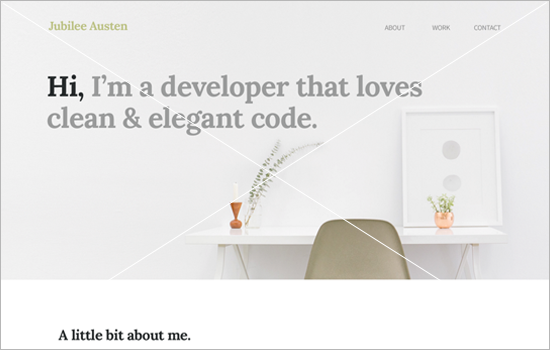
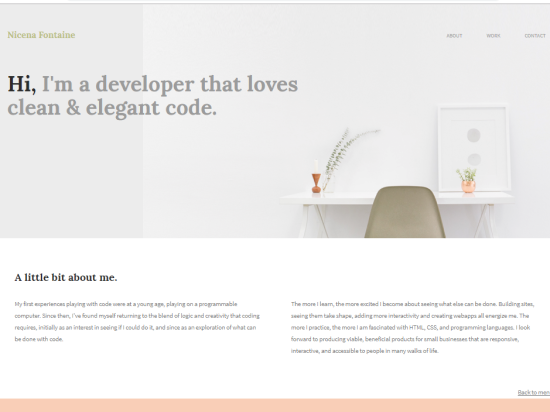
Update portfolio section (content, images and styling).

diff --git a/index.html b/index.html
@@ -33,16 +33,16 @@
             </div>
             <div class="right">
                 <h3 class="title">Rogue Pickings Website</h3>
-                <p class="project-type">HTML5 &amp; CSS from Photoshop Design Comp</p>
-                <p>do de do&hellip;</p>
+                <p class="project-type">HTML5 &amp; CSS fluid page</p>
+                <p>Initially a static page created from a Photoshop Design Comp, it was later styled to be fluid to fit different screen sizes, however is still best viewed on a computer monitor.</p>
             </div>
         </div>
 
         <div class="full-width">
             <div class="left">
                 <h3 class="title">Jubilee Austen Project</h3>
-                <p class="project-type">HTML5 &amp; CSS from Photoshop Design Comp</p>
-                <p>do de do&hellip;</p>
+                <p class="project-type">HTML5 &amp; CSS static page</p>
+                <p>A static page created using HTML5 and CSS that was created from a Photoshop Design Comp. Best viewed on a computer monitor, as it is not responsive.</p>
             </div>
             <div class="right">
                 <img class="thumbnail" src="img/jubilee-thumbnail.png" alt="thumbnail image of Jubilee Austen Project">
@@ -51,12 +51,12 @@
 
         <div class="full-width">
             <div class="left">
-                <img class="thumbnail" src="img/holstee-thumbnail.png" alt="thumbnail image of Manifesto">
+                <img class="thumbnail" src="img/manifesto-thumbnail.png" alt="thumbnail image of Manifesto">
             </div>
             <div class="right">
                 <h3 class="title">Manifesto Challenge</h3>
                 <p class="project-type">HTML5 &amp; CSS Exercise</p>
-                <p>do de do&hellip;</p>
+                <p>This project started as an HTML5 and CSS3 exercise to practice layouts in a static page. It evolved into a responsive Manifesto that can be viewed on monitors, tablets, and phone screens.</p>
             </div>
         </div>
     </main>

diff --git a/css/main.css b/css/main.css
@@ -23,13 +23,14 @@ h2 {
 .title {
     font-size: 1em;
     font-weight: 700;
+    margin-bottom: 0;
 }
 
 /*** Layout ***/
 
 header, main, section, footer {
     overflow: auto;
-    width: 80%;
+    width: 100%;
 }
 
 .full-width {
@@ -56,7 +57,7 @@ header {
     overflow: auto;
     background-repeat: no-repeat;
     background-size: cover;
-    background-position: 0 2.5em;
+    background-position: 0 3em;
     height: 600px;
 }
 
@@ -101,9 +102,14 @@ img.thumbnail {
     padding-right: 10%;
 }
 
-.left p, .right p {
+.left h3, .right h3, .left p, .right p {
     padding-left: 10%;
     padding-right: 10%;
+}
+
+.project-type {
+    margin-top: 0;
+    font-size: .85em;
 }
 
 /*** Contact Section ***/
